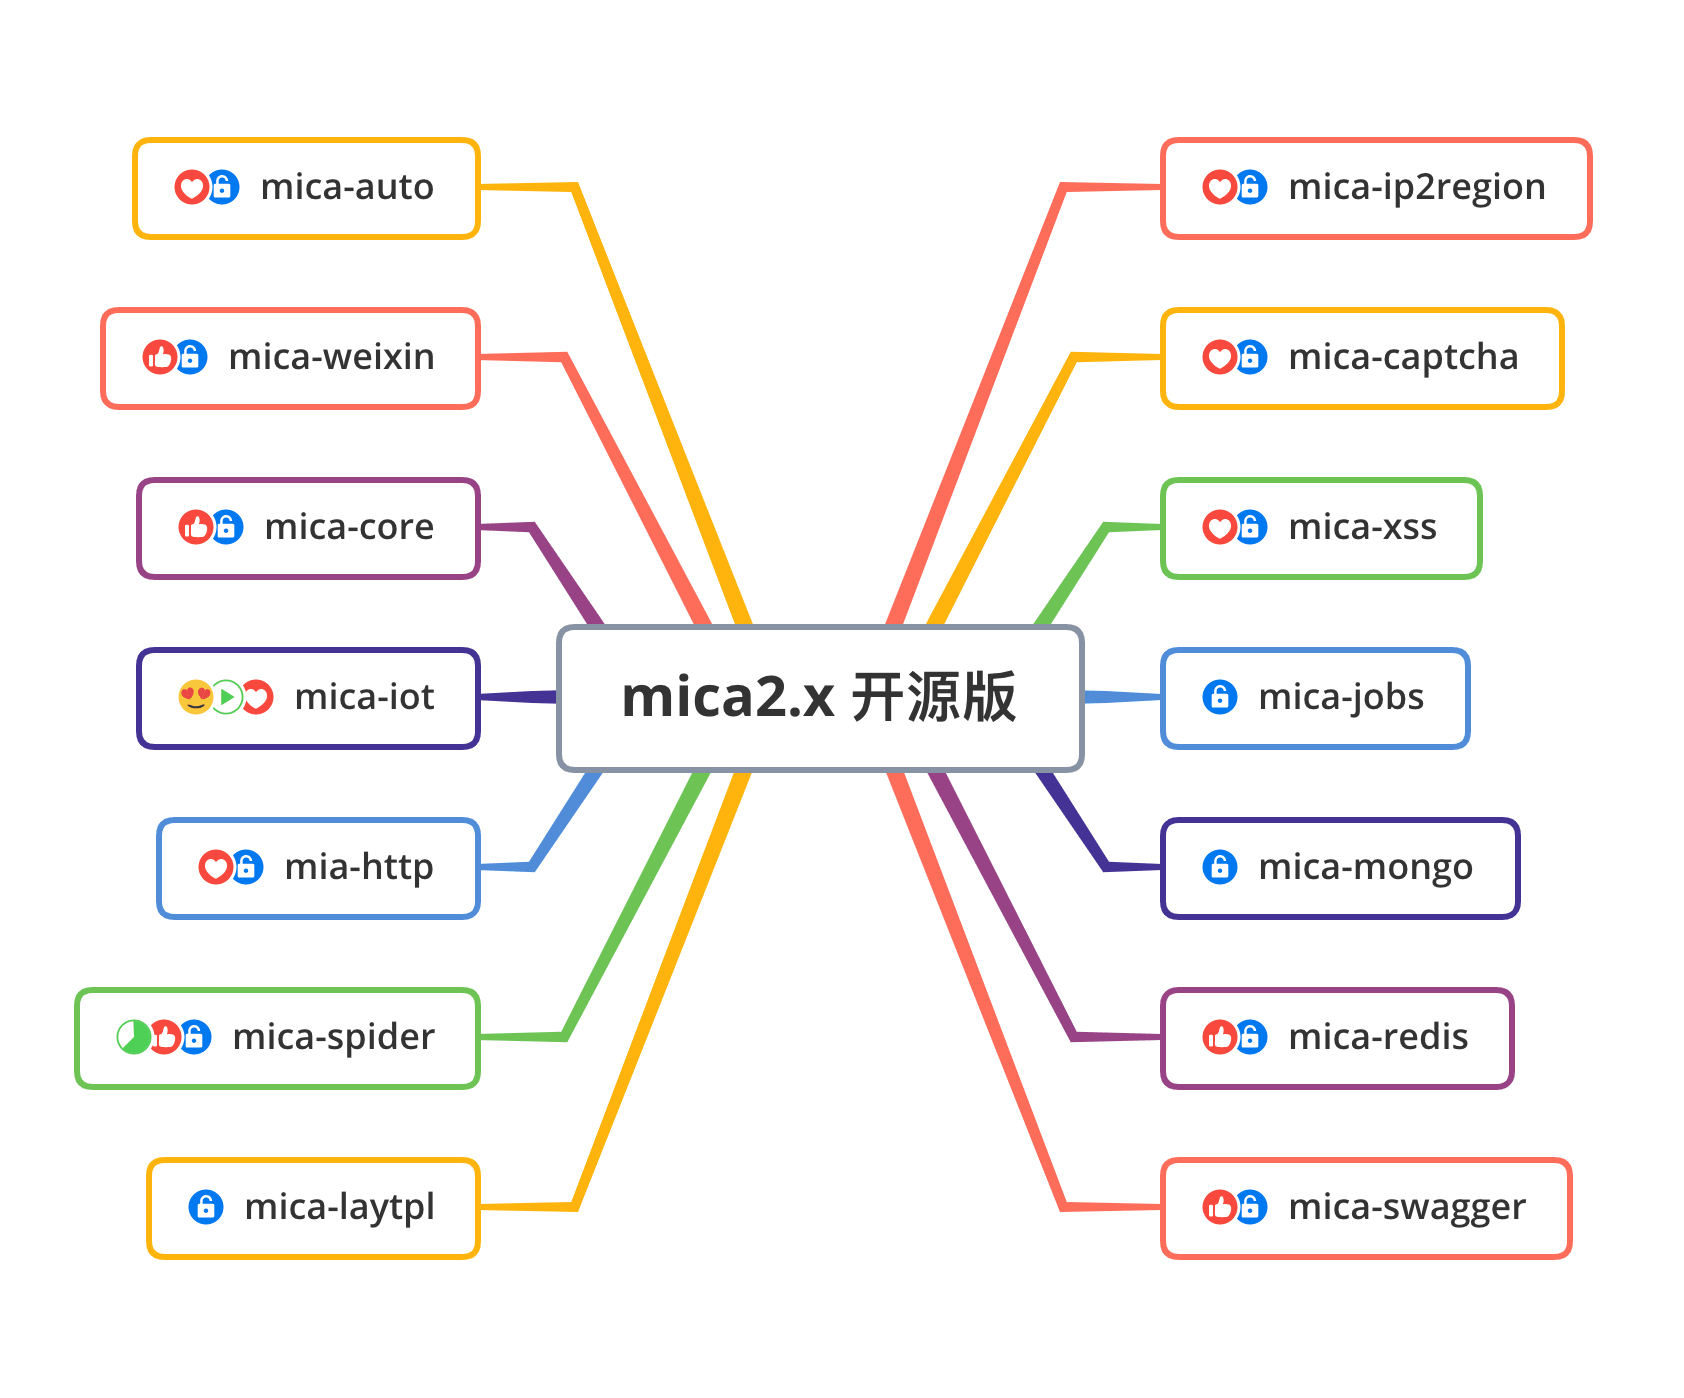
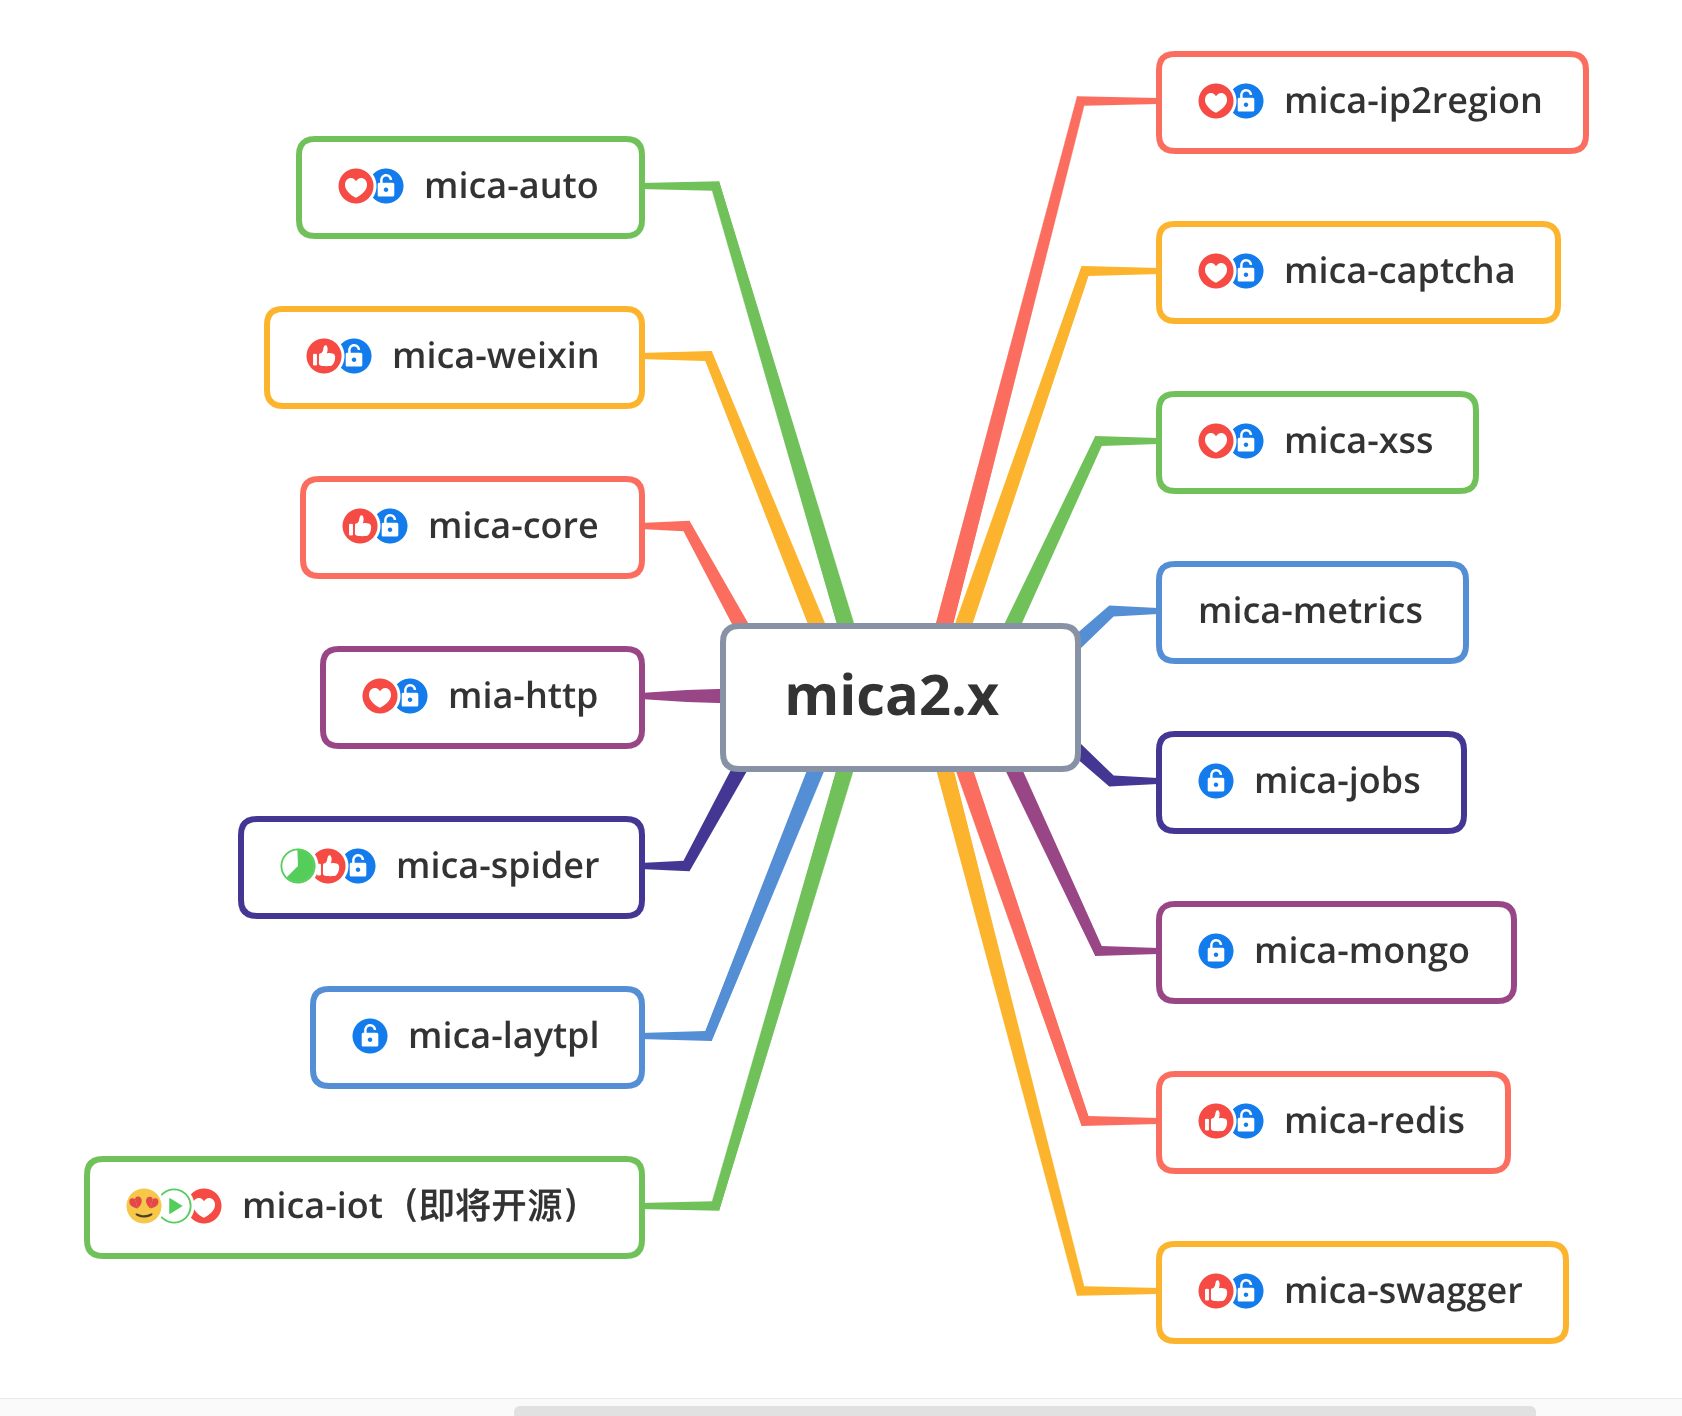
:memo: mica-metric 文档完善。

Changed region(s): [[0.0309, 0.0308, 0.9584, 0.9535], [0.3092, 0.9843, 0.9275, 1.0]]

diff --git a/MODULE.md b/MODULE.md
@@ -74,3 +74,9 @@
 - 提供路由和控制器方法级别的放行规则。
 
 `文档地址`：[mica-xss](mica-xss/README.md)
+
+## mica-metrics
+- sentinel 指标收集。
+- undertow 指标收集。
+
+`文档地址`：[mica-metrics](mica-metrics/README.md)
